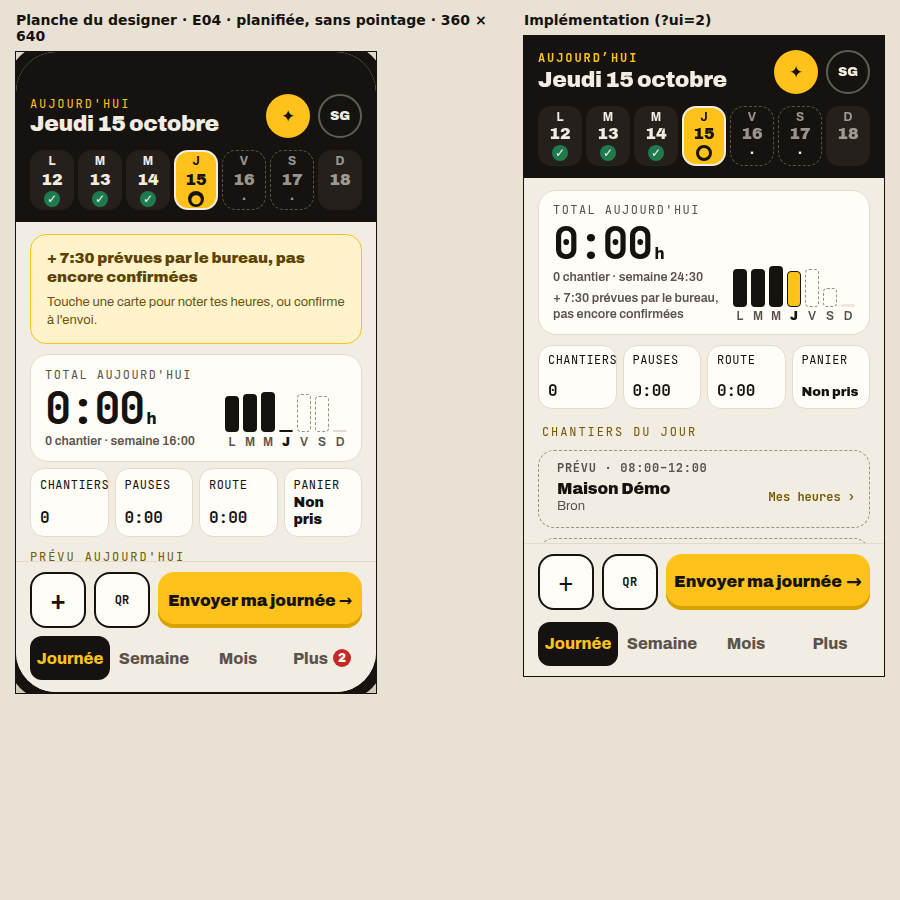
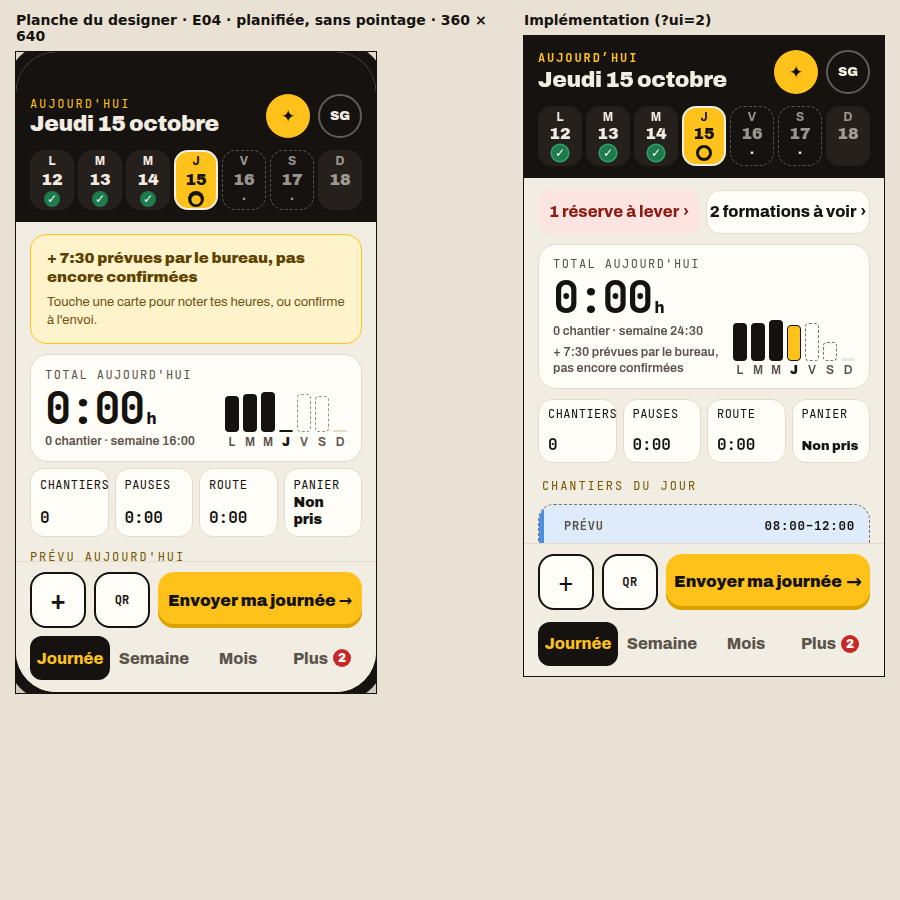
Design salarié : preuve de fidélité étendue (cartes de chantier à plusieurs états, réunion, tâches, menu Plus, contrastes et cibles mesurés) ; Dupliquer fidèle à la planche
Claude-Session: https://claude.ai/code/session_01UjXHEzdjb9t6bteo8SrVhu

Changed region(s): [[0.5911, 0.1556, 0.9644, 0.6222], [0.84, 0.5289, 0.9644, 0.5911], [0.9022, 0.6844, 0.9644, 0.7467]]

diff --git a/components/design/salarie/shell-v2.css b/components/design/salarie/shell-v2.css
@@ -208,6 +208,11 @@
 .bt-ui2 .bt-iv-cancel .bt-cancel-time { color: var(--dz-texte-2); text-decoration: none; }
 .bt-ui2 .bt-iv.off { margin: 0; border: 1.5px dashed var(--dz-prevu-trait); border-radius: var(--dz-r-m); background: var(--dz-carte); padding: 10px 14px 12px 18px; }
 .bt-ui2 .bt-iv.off .bt-badge-off { background: var(--dz-telephone-fond); border: 0; color: var(--dz-encre); }
+/* mention d'état de la carte : encre pour les heures du prévu, brun de titre pour « Mes heures › » (≥ 4,5:1 sur les trois créneaux) */
+.bt-ui2 .bt-plan-k { color: var(--dz-encre); }
+.bt-ui2 .bt-iv-cta { font: 700 var(--dz-fs-12)/1.2 var(--dz-font-chiffres); color: var(--dz-titre-section); }
+.bt-ui2 .bt-iv-geo-v { font-size: var(--dz-fs-12); }
+.bt-ui2 .bt-sentnote { color: var(--dz-texte-2); }
 /* « Terminé le … » : un encadré sable (style en ligne du composant : seul !important le passe) */
 .bt-ui2 .bt-iv [data-testid="termine-le"], .bt-ui2 .bt-iv-plan [data-testid="termine-le"] { grid-column: 1 / -1; display: block; margin: 3px 0 0 !important; padding: 8px 10px; border-radius: 10px; background: var(--dz-sable); color: var(--dz-texte-note) !important; font: 400 var(--dz-fs-125)/1.35 var(--dz-font-ui) !important; }
 /* encadrés dans la carte : réserve, correction du bureau, endroit noté, observation, avertissement du prévu */
@@ -231,7 +236,8 @@
 .bt-ui2 .bt-gap-ask { color: var(--dz-a-envoyer-texte); }
 .bt-ui2 .bt-gap-b { min-height: 44px; padding: 0 14px; border-radius: 12px; border: 1.5px solid var(--dz-trait-fort); background: var(--dz-carte); color: var(--dz-encre); font: 800 var(--dz-fs-16)/1 var(--dz-font-ui); }
 .bt-ui2 .bt-gap-b.on { background: var(--dz-encre); color: var(--dz-jaune); border-color: var(--dz-encre); }
-.bt-ui2 .bt-dup { align-self: center; min-height: 44px; margin: 4px auto 0; border: 1px solid var(--dz-trait-fort); border-radius: 12px; background: transparent; color: var(--dz-texte-2); font: 700 14px/1 var(--dz-font-ui); }
+.bt-ui2 .bt-dup { display: flex; align-items: center; justify-content: center; width: 100%; min-height: 48px; margin: 0; border: 1px solid var(--dz-trait-fort); border-radius: 999px; background: var(--dz-carte); color: var(--dz-encre); font: 800 var(--dz-fs-16)/1 var(--dz-font-ui); }
+.bt-ui2 .bt-dup svg { display: none; }
 .bt-ui2 .bt-retour { margin: 0; background: var(--dz-a-envoyer-fond); border: 2px solid var(--dz-a-envoyer-trait); border-radius: 14px; color: var(--dz-a-envoyer-texte-2); }
 .bt-ui2 .bt-empty { color: var(--dz-texte-2); }
 
